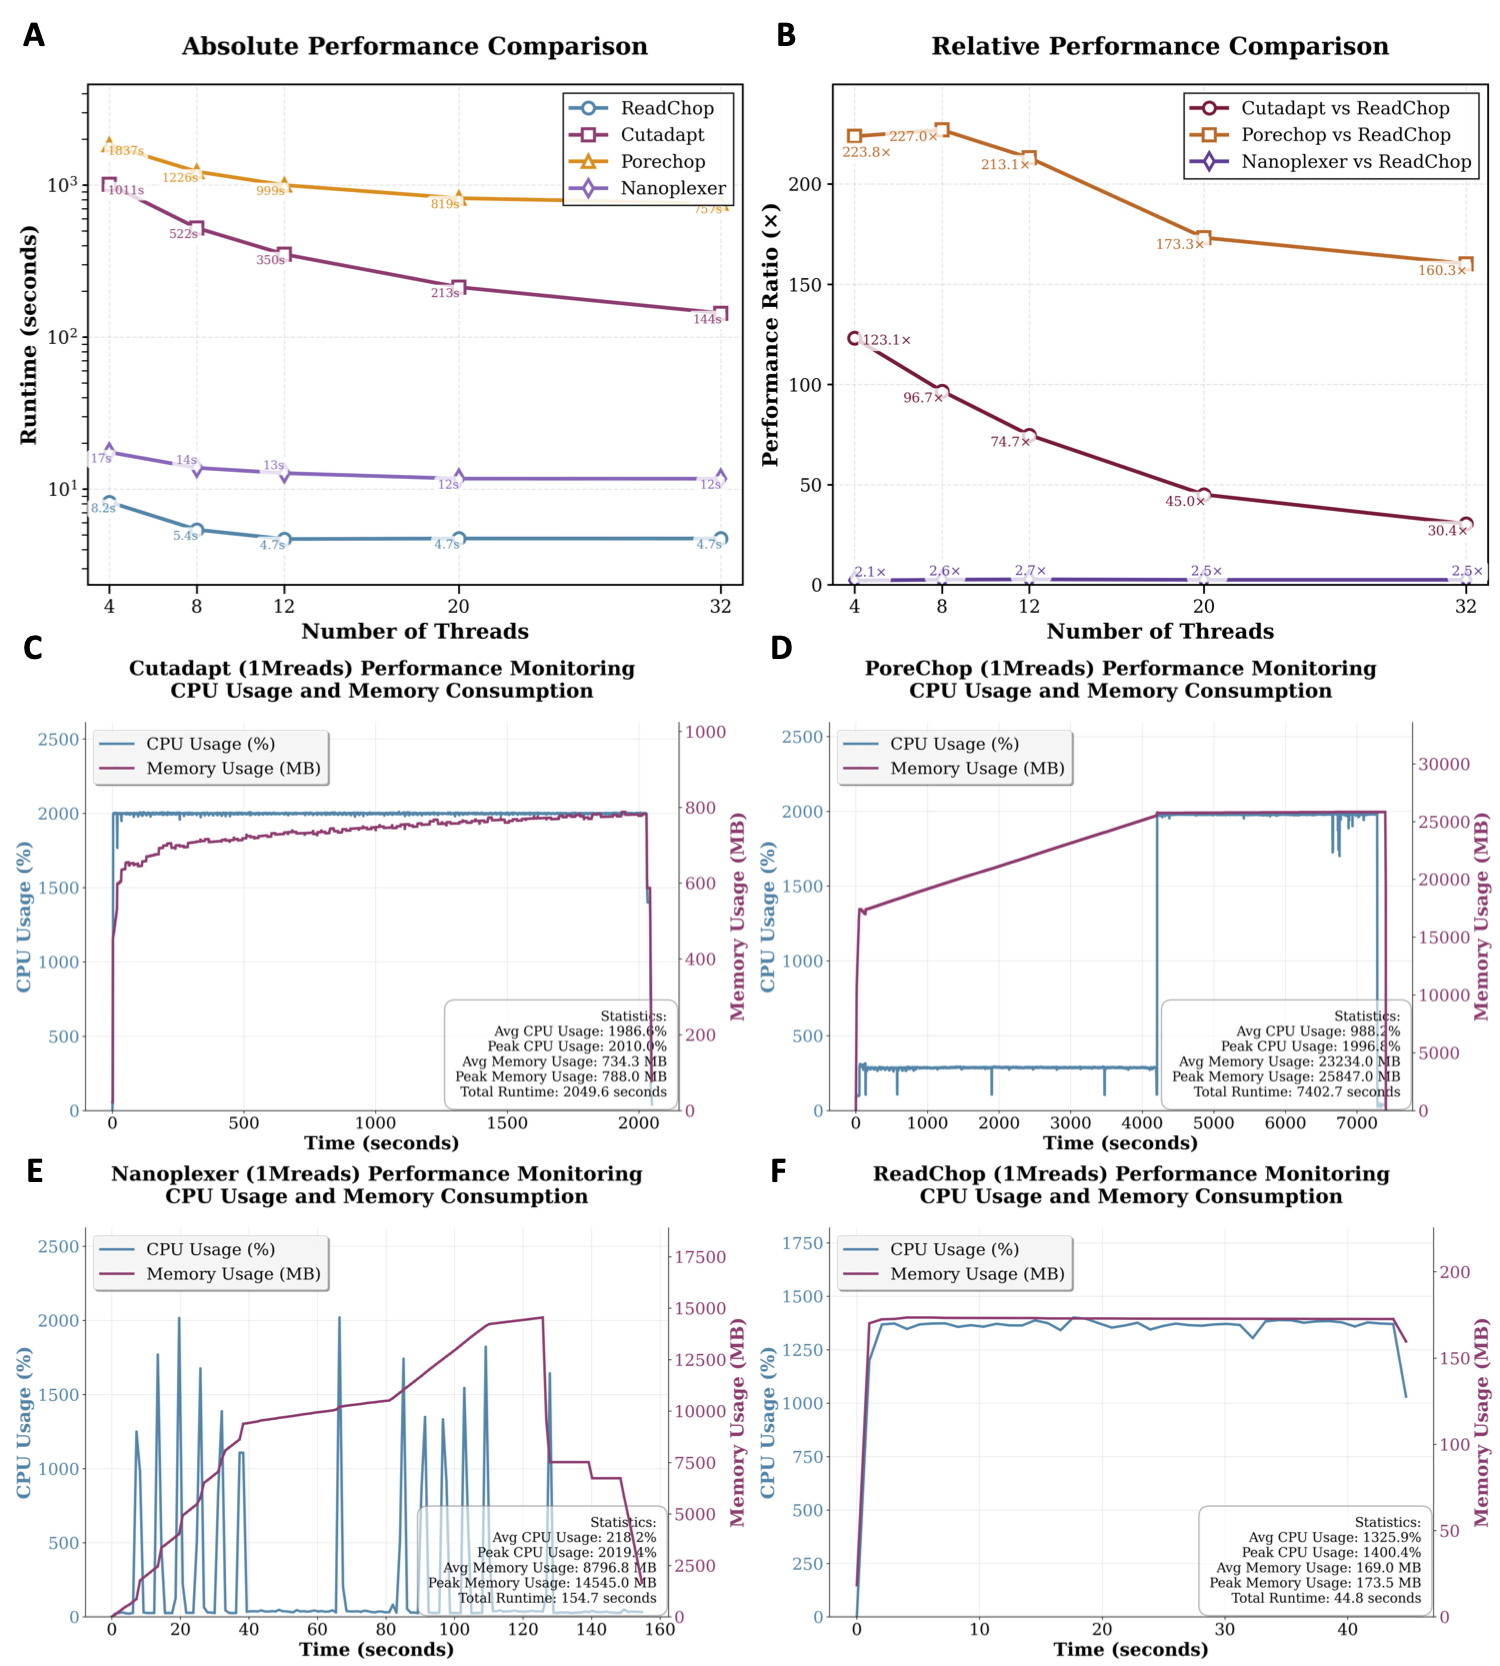
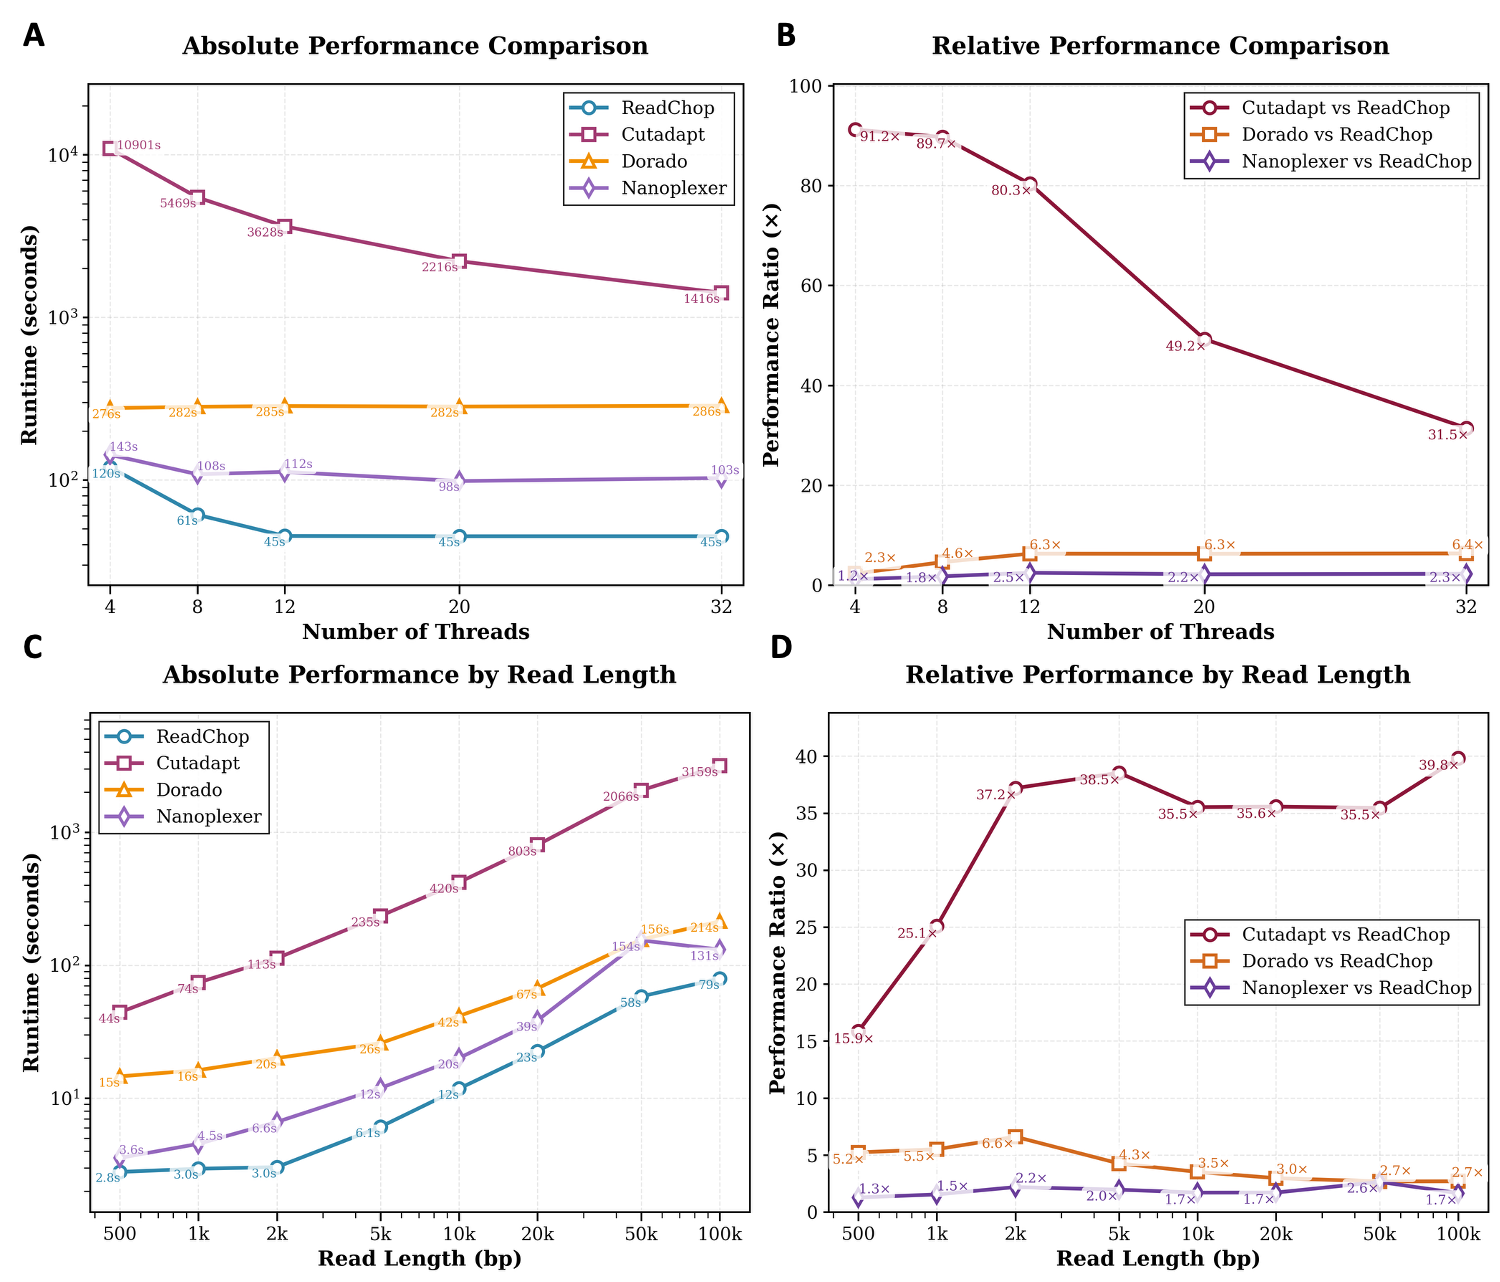
✨ Update README to include new benchmark results image

diff --git a/README.md b/README.md
@@ -27,6 +27,9 @@ Performance comparison of ReadChop with Cutadapt, Nanoplexer, and PoreChop on 1M
 
 ![Benchmark Results](assets/Figure3.png)
 
+
+![Benchmark Results mem](assets/Figure4.png)
+
 ## Installation
 
 ### Build from Source
@@ -79,18 +82,6 @@ readchop [OPTIONS] --pattern-files <PATTERN_FILES>... --db <PATTERN_DB_FILE>
 |--------|-------|-------------|
 | `--pattern-files` | `-p` | Pattern file list (one or more files) |
 | `--db` | `-d` | Pattern database file |
-
-### Commands
-
-### view - Preview Results
-
-Preview barcode detection results with color highlighting:
-
-```bash
-readchop view -i example/example.fastq \
-    -d example/pattern.db \
-    -p example/barcode.list
-```
 
 ## Examples
 
@@ -222,13 +213,13 @@ Detected patterns: (BC02_BC02,0,21,45) (BC02_BC02,0,5017,5041)
 ```
 
 Understanding the Output:
-The view mode provides a clear breakdown of the read:
+The `view` mode provides a clear breakdown of the read:
 
-Sequence ID & Length: Basic information about the processed read.
+- Sequence ID & Length: Basic information about the processed read.
 
-Sequence: The actual nucleotide sequence (truncated for display).
+- Sequence: The actual nucleotide sequence (truncated for display).
 
-Detected patterns: Shows exactly which barcodes were identified, along with their matching metrics. For instance, (BC02_BC02,0,21,45) indicates that the BC02 pattern was found with 0 errors, starting at position 21 and ending at position 45 (near the 5' end). The second tuple shows it was also found near the 3' end (positions 5017 to 5041).
+- Detected patterns: Shows exactly which barcodes were identified, along with their matching metrics. For instance, (BC02_BC02,0,21,45) indicates that the BC02 pattern was found with 0 errors, starting at position 21 and ending at position 45 (near the 5' end). The second tuple shows it was also found near the 3' end (positions 5017 to 5041).
 
 
 ## File Formats
